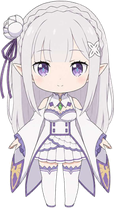
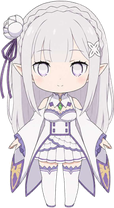
fix(pet): 只让虹膜跟随，眼眶/睫毛不动
- 底图虹膜用眼白色椭圆覆盖（羽化过渡 + 10% 上眼睑投影），改成 iris_l/iris_r 小补丁层
- 补丁仅覆盖虹膜本体（外扩 4px、边缘 3px 羽化），位移降到 ±2.0/±1.3px
- 闭眼帧基于新底图重绘；旧 eye_l/eye_r 素材移除

Changed region(s): [[0.3158, 0.2885, 0.4211, 0.375], [0.6316, 0.2885, 0.7368, 0.375]]

diff --git a/source/js/pet.js b/source/js/pet.js
@@ -37,11 +37,12 @@
   var SPRITE_2X = '/images/pet/front_416.webp';
   var SPRITE_CLOSED_1X = '/images/pet/front_closed_208.png';
   var SPRITE_CLOSED_2X = '/images/pet/front_closed_416.webp';
+  // 只覆盖虹膜本体（底图里的虹膜已被抹成眼白），眼眶/睫毛不动
   var EYES = [
-    { src: '/images/pet/eye_l.webp', src2: '/images/pet/eye_l@2x.webp', x: 24.48, y: 27.00, w: 23.09, h: 11.64 },
-    { src: '/images/pet/eye_r.webp', src2: '/images/pet/eye_r@2x.webp', x: 57.99, y: 27.00, w: 23.09, h: 11.16 }
+    { src: '/images/pet/iris_l.webp', src2: '/images/pet/iris_l@2x.webp', x: 32.81, y: 30.15, w: 9.90, h: 6.01 },
+    { src: '/images/pet/iris_r.webp', src2: '/images/pet/iris_r@2x.webp', x: 63.02, y: 30.25, w: 9.55, h: 5.92 }
   ];
-  var MAX_EYE_X = 2.4, MAX_EYE_Y = 1.7;   // 眼睛最大位移（CSS px，1x）
+  var MAX_EYE_X = 2.0, MAX_EYE_Y = 1.3;   // 虹膜最大位移（CSS px，1x）
   var TILT_START = 0.62;                  // 指针偏移超过这个比例才开始带头部倾斜
   var MAX_TILT_Y = 3.2, MAX_TILT_X = 2.2;
   var artEl = null;             // 承载倾斜的 card

diff --git a/source/images/pet/ATTRIBUTION.md b/source/images/pet/ATTRIBUTION.md
@@ -4,7 +4,7 @@
 |---|---|---|---|---|---|
 | 角色三视图（左=正面，中=侧面，右=背面） | 不入库（原始 1536×1024 JPEG，站方本地保存） | 阿万提供，AI 生成 | 站方自有素材；仅本站非商业展示 | 2026-10-29 | 未修改 |
 | 正面视图精灵 | `front_208.png`（1×）、`front_416.webp`（2×）、`front_closed_*`（闭眼帧） | 同上 | 同上 | 2026-10-29 | 从三视图左侧「正面」裁切 → 洪水填充去白底（容差 6）→ 边缘 2px 羽化 → 缩放至 208 / 416 高；闭眼帧在此基础上用肤色眼睑 + 睫毛弧覆盖双眼 |
-| 眼睛跟随补丁 | `eye_l.webp` / `eye_r.webp`（1×）、`*@2x.webp`（2×） | 同上 | 同上 | 2026-10-29 | 从正面精灵按实测眼部 bbox（各外扩 20px）裁出，边缘 10px 羽化透明，用于指针跟随位移 |
+| 虹膜跟随补丁 | `iris_l.webp` / `iris_r.webp`（1×）、`*@2x.webp`（2×） | 同上 | 同上 | 2026-10-29 | 按实测虹膜 bbox（L 193–242/320–375，R 367–414/321–375）各外扩 4px 裁出、边缘 3px 羽化；底图中的虹膜同步用眼白色椭圆覆盖并加 10% 上眼睑投影，实现“只动眼珠、眼眶不动” |
 
 ## 说明
 
